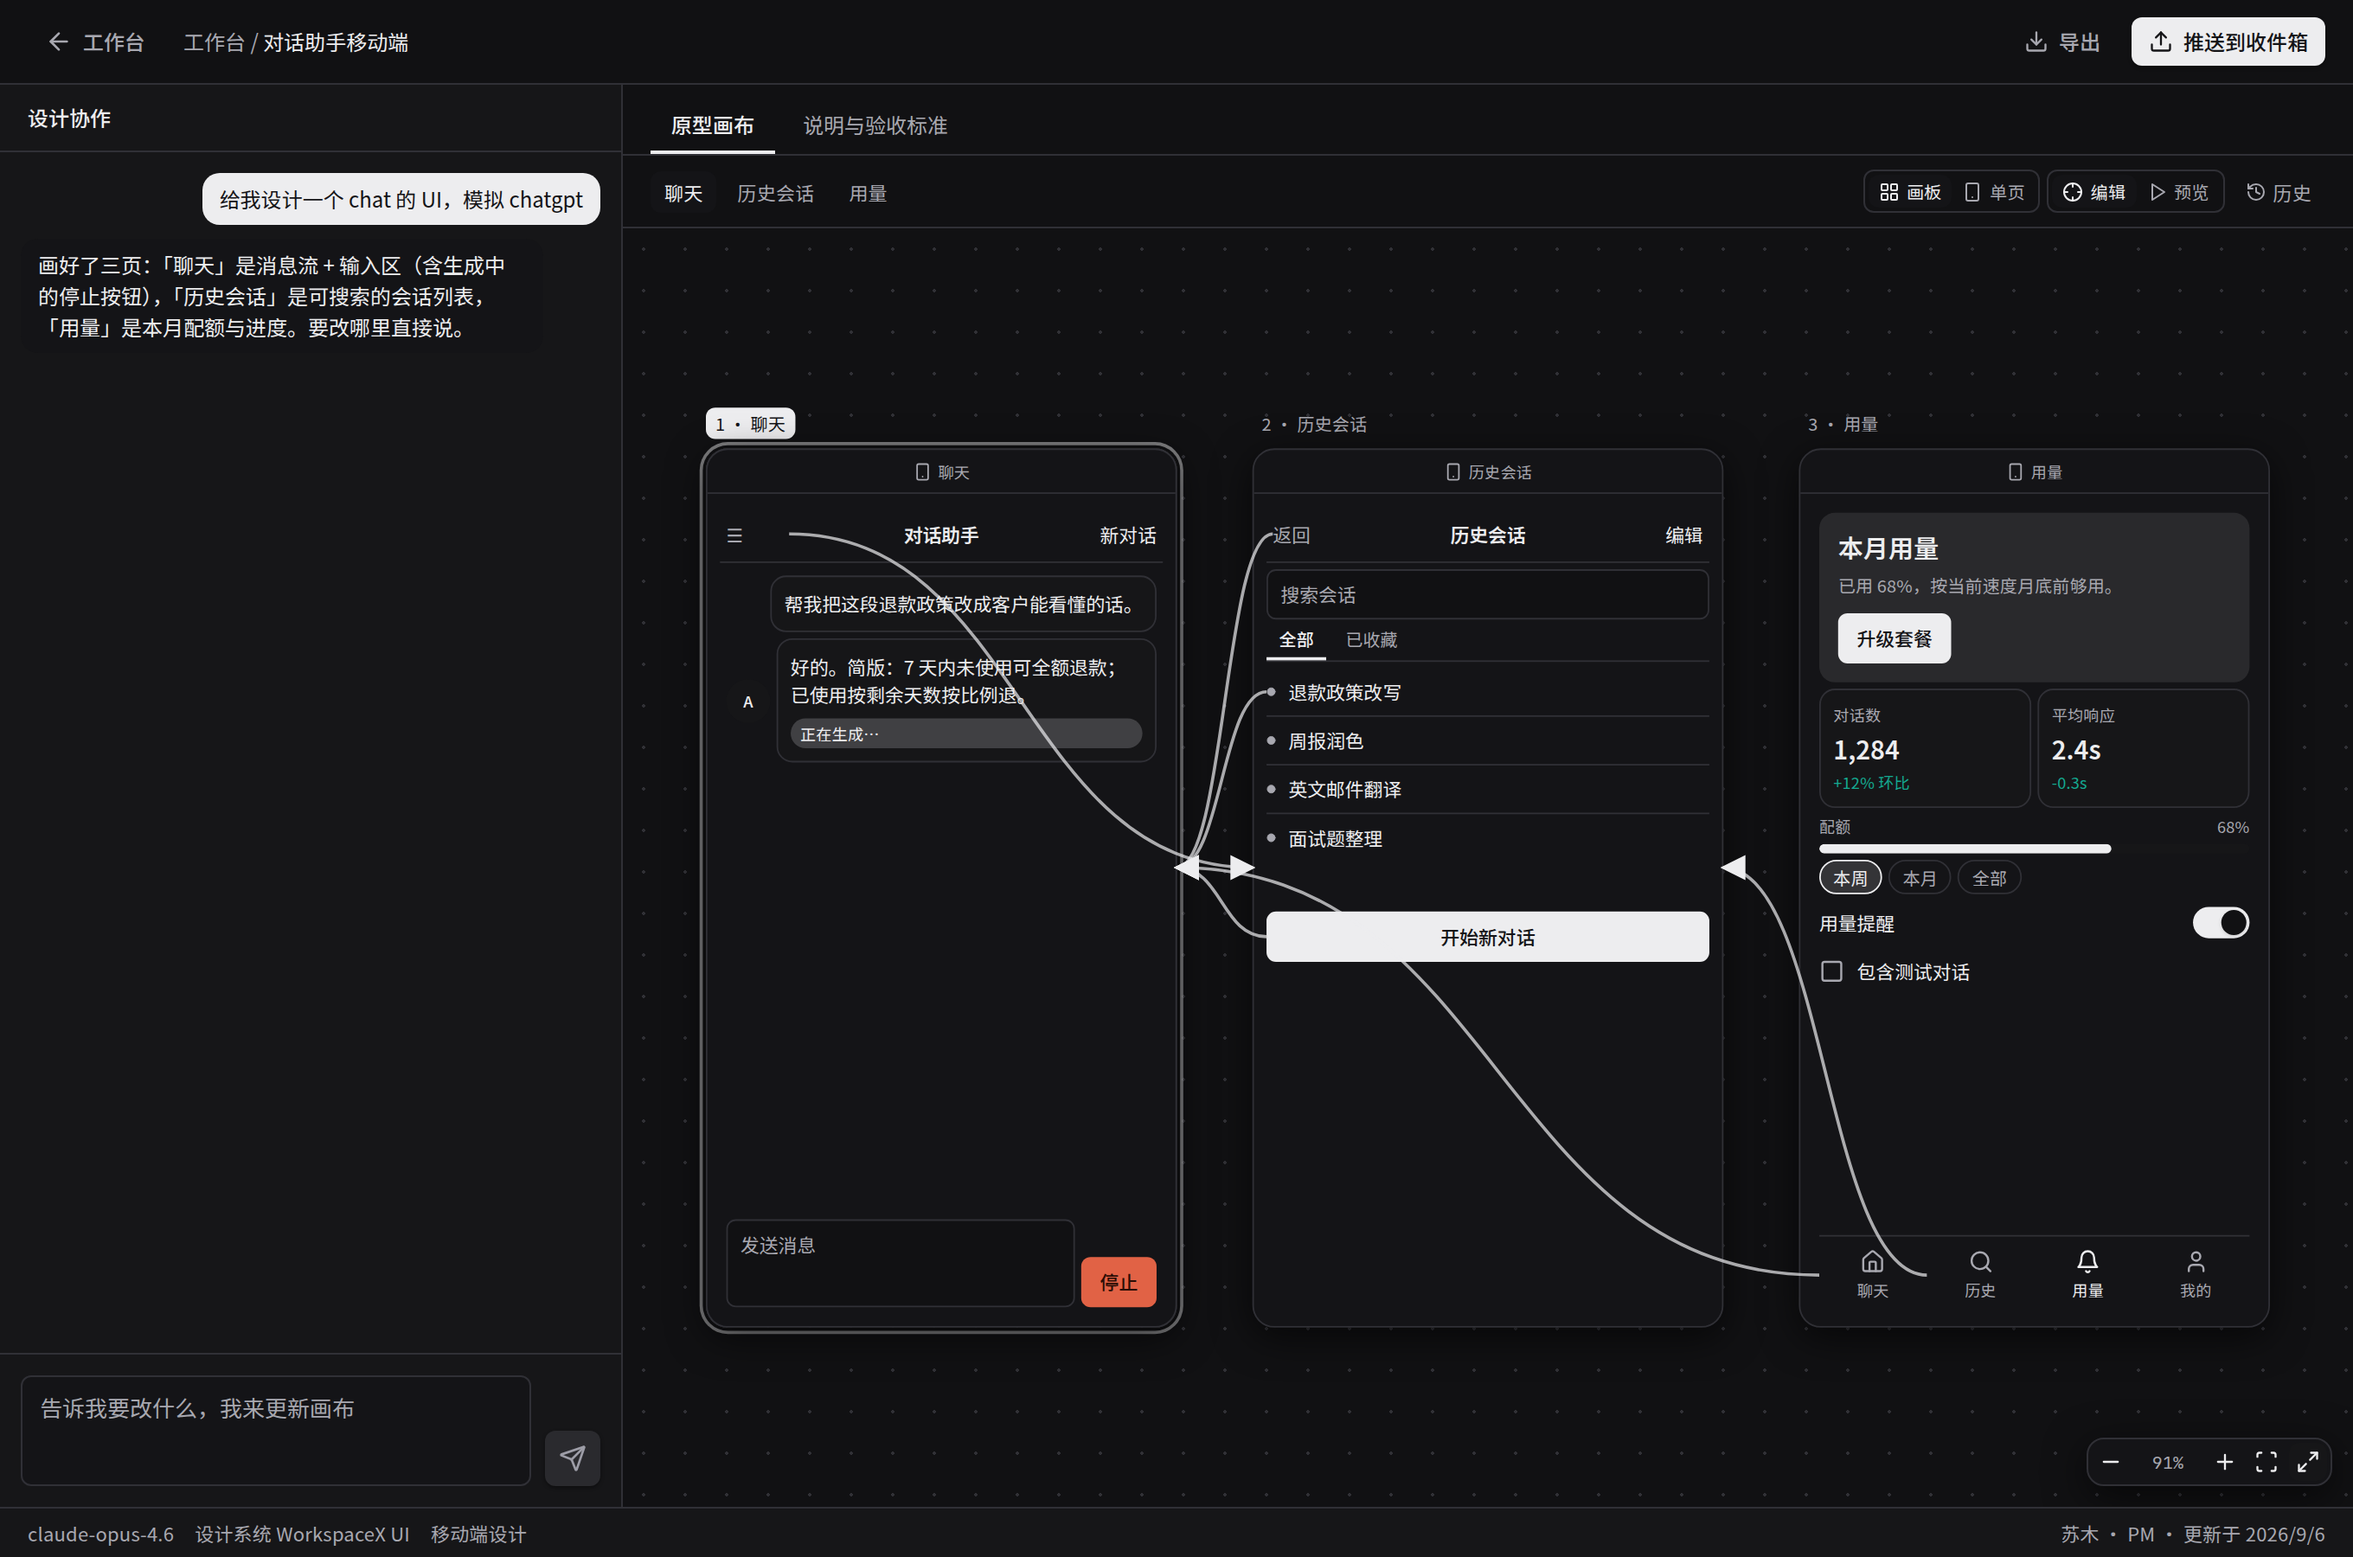
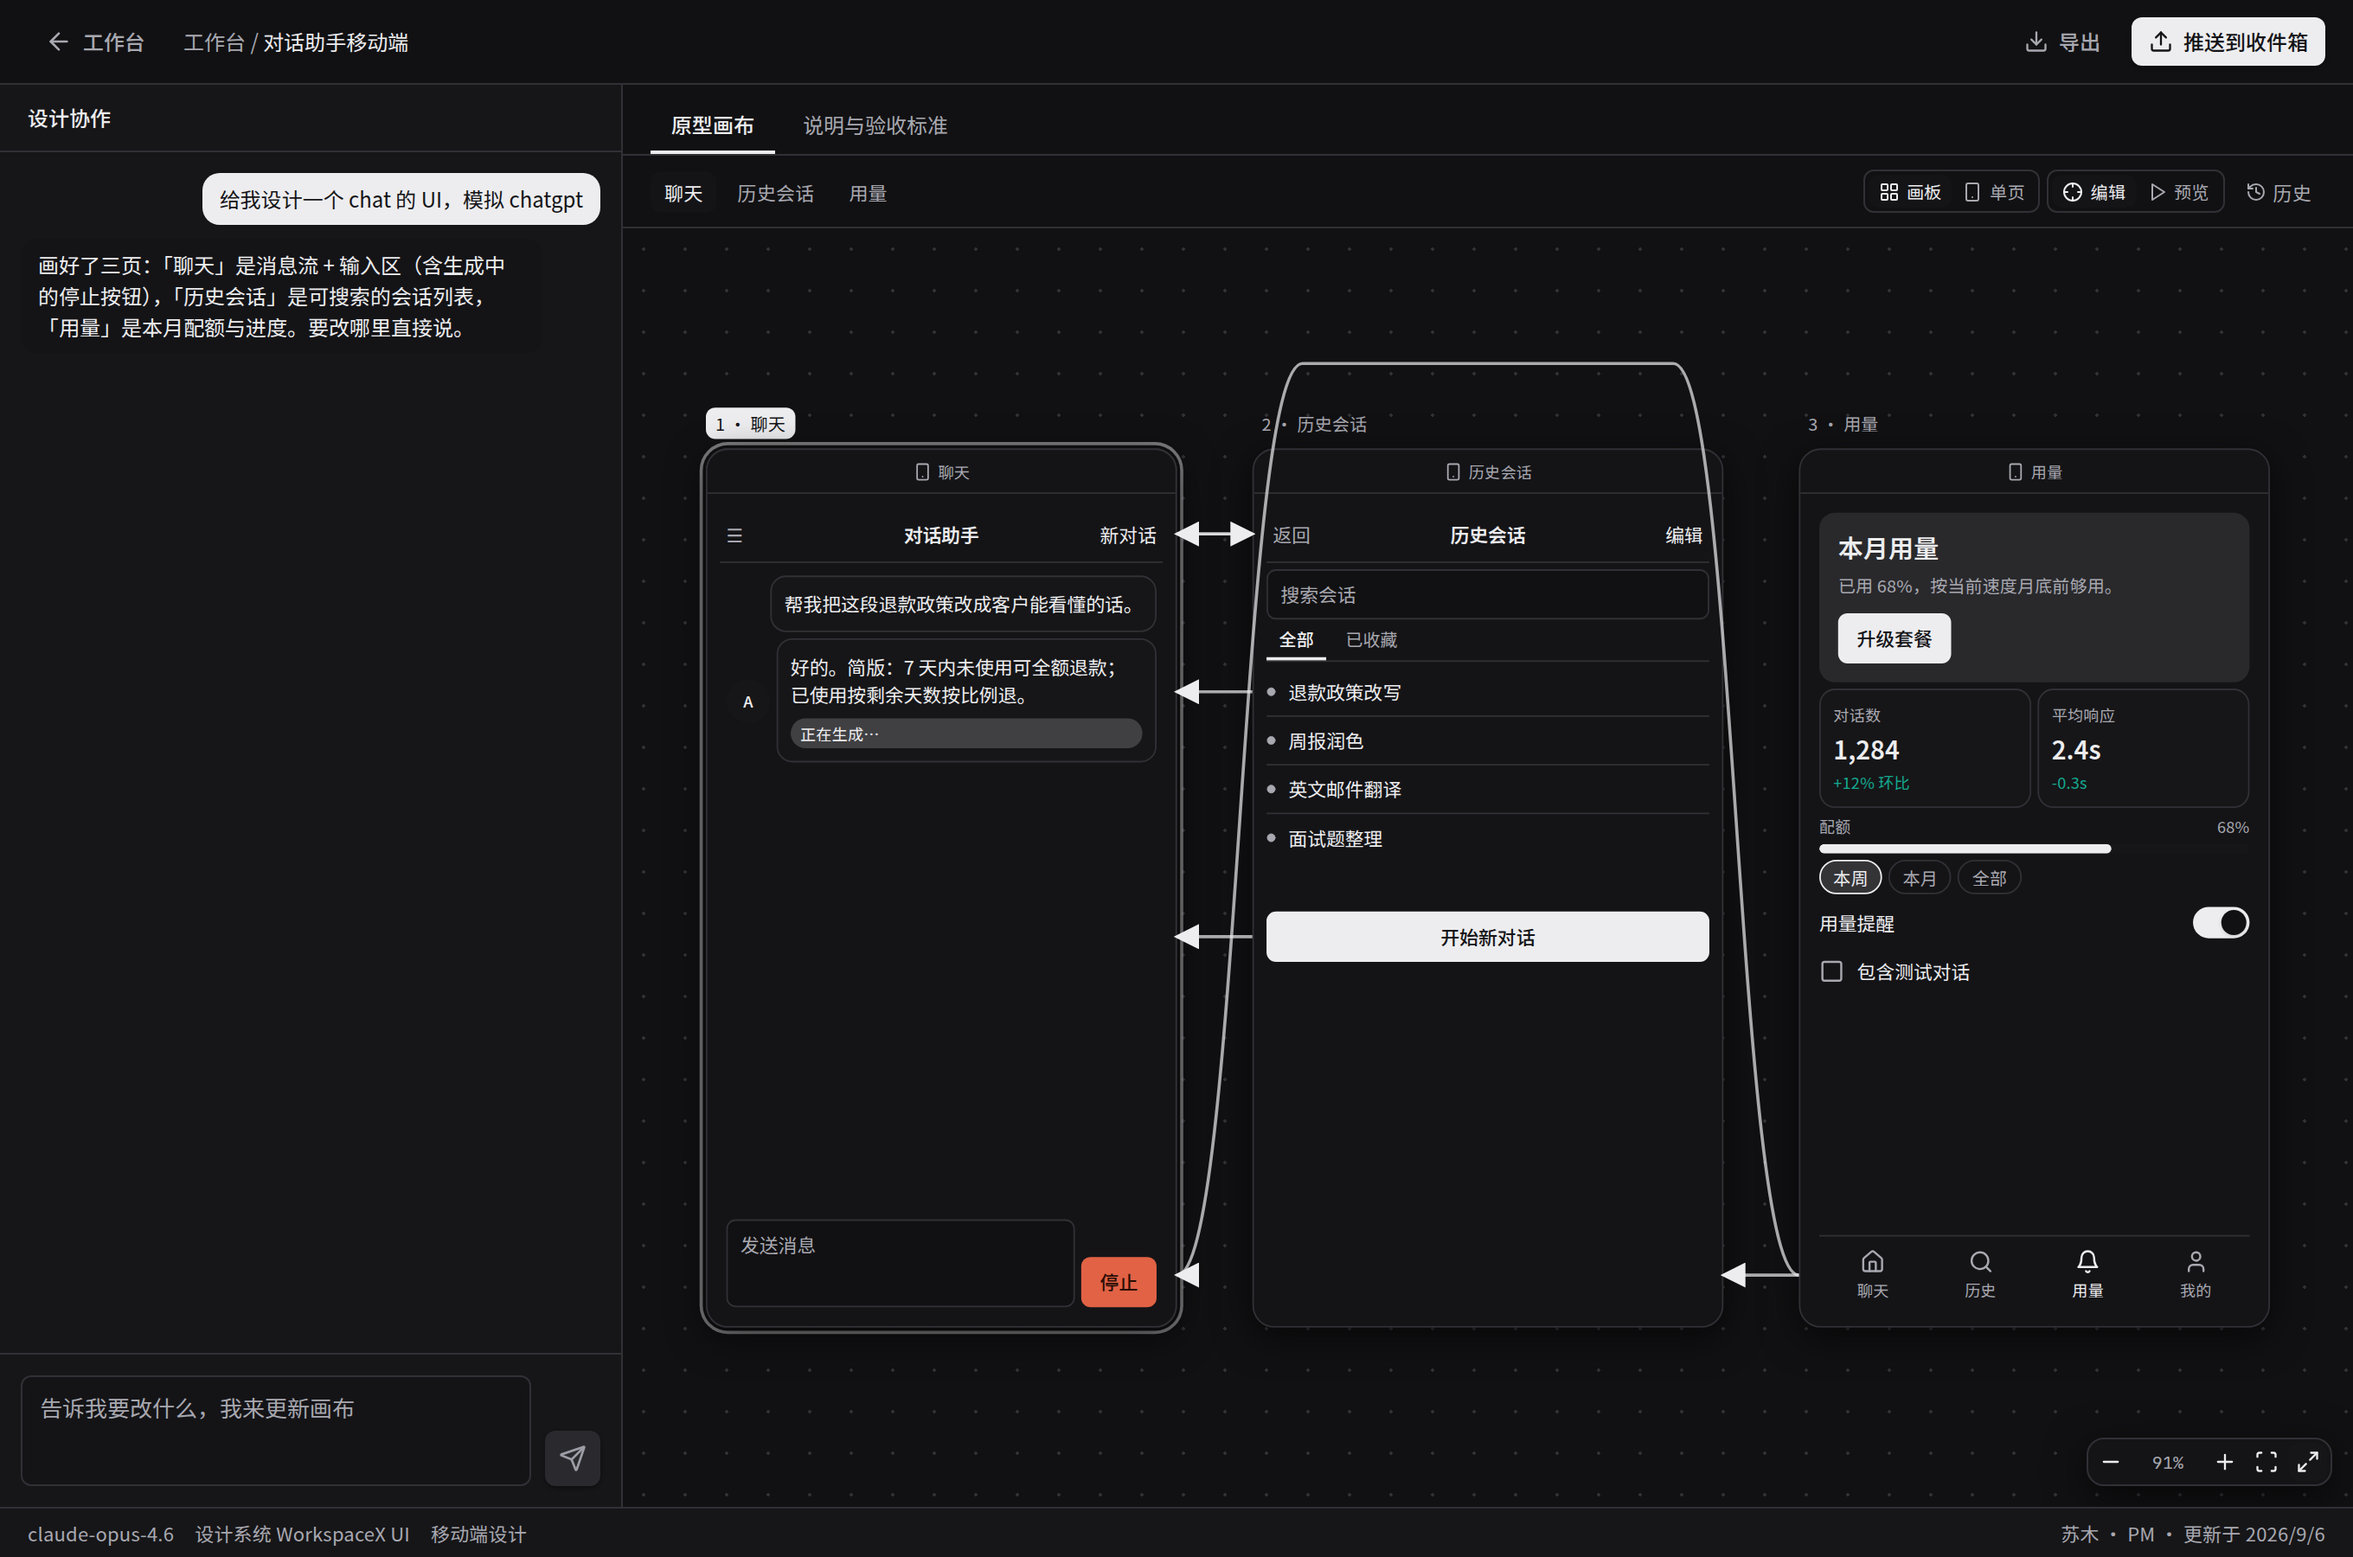
fix(design-prototype): 画板连线不再压住手机内容 + 跨页从上方绕行
Refs #2917

rev-uiux 复评时在图上看到、但**按现行评分卡扣不了分**的问题（十维对应迭代 0–9，
迭代 11 的连线不在任何一维里）。自己开图核对属实，比描述更明显：

- 一条线横穿 AI 气泡「已使用按剩余天数按比例退。」，另一条切过导航栏；
- 第 1、2 页之间两个箭头背靠背挤成一团，指向读不出来。

## 根因

起点取的是**节点自身**的左右缘，而节点在手机里面 ⇒ 每条线都必须横穿本页内容才能出来。
终点固定取目标页的**垂直中心** ⇒ 两条反向的线必然在中间撞在一起。

## 改法

- 起点改成**页边**，垂直位置仍取节点中心（夹在页内）——"从哪个控件出发"照旧读得出，
  但线只走页与页之间的空档。
- 终点与起点同高（夹进目标页），线走平、反向的两条不再重合。
- 跨页（3→1 这种）直连会压过中间那页，改成「抬起 → 顶上走直线 → 落下」。
  ⚠ 控制点必须用固定小偏移：第一版沿用了相邻页那个"一半距离"的 dx，跨页时两点相距很远，
  三次曲线严重过冲——实测冲出可视区又斜插回中间那页，比直连还糟。重拍两次才收敛。

## 验证

真浏览器重拍 `detail-prototype-links-dark.png` 并**逐张开图核对**（不是只看测试绿）：
相邻页的线只走空档、跨页那条从上方绕过第 2 页、无过冲。
web design-loop 97 绿、真浏览器 design-prototype-loop 5/5、lint（含 lint-design）、
lint-ui-material（910 张）、doctor --phase 03 0 FAIL。

⚠ 评分卡缺口另记：D1–D10 覆盖的是迭代 0–9，**迭代 11 即使完全没做也照样 10/10**。
是否补一维 D11（连线可读不遮挡 / 预览换页 / 无死按钮）留给人类裁决，我不自己改判据。

Claude-Session: https://claude.ai/code/session_01KVphFnX3KA34Drfq2ELEfh

diff --git a/apps/web/components/design-loop/prototype-board.tsx b/apps/web/components/design-loop/prototype-board.tsx
@@ -1,4 +1,10 @@
 "use client";
+/** 把 v 夹进 [lo, hi]；区间反了（页太矮）就取中点。线的端点必须落在页边上，不能飘到页外。 */
+function clampTo(v: number, lo: number, hi: number): number {
+  if (hi <= lo) return (lo + hi) / 2;
+  return Math.min(hi, Math.max(lo, v));
+}
+
 /**
  * 迭代 4 —— 多画板画布（Claude Design 式）：所有页并排铺在一块可平移/缩放的画板上。
  *
@@ -86,15 +92,42 @@ export function PrototypeBoard({
         const srcEl = frameEl.querySelector(multi ? `[data-link-item="${linkKey(l.from, l.item)}"]` : `[data-node-id="${l.from}"]`);
         const dstEl = stage.querySelector(`[data-board-frame="${l.to}"]`);
         if (srcEl === null || dstEl === null) continue;
-        const a = rel(srcEl.getBoundingClientRect());
+        const node = rel(srcEl.getBoundingClientRect());
+        const src = rel(frameEl.getBoundingClientRect());
         const b = rel(dstEl.getBoundingClientRect());
         const rightward = l.to > i;
-        const sx = rightward ? a.x2 : a.x1;
-        const sy = (a.y1 + a.y2) / 2;
+        /**
+         * ⚠ 线**从页边出发，不从节点出发**。此前起点取的是节点自身的左右缘，而节点在手机
+         * 里面，于是每条线都要横穿这一页的内容才能出来——实测图上一条线正好划过 AI 气泡
+         * 「已使用按剩余天数按比例退。」。垂直位置仍取节点中心（夹在页内），所以"是哪个控件
+         * 出发的"依然读得出来，只是线本身只走页与页之间的空档。
+         */
+        const sx = rightward ? src.x2 : src.x1;
+        const sy = clampTo((node.y1 + node.y2) / 2, src.y1 + 8, src.y2 - 8);
         const tx = rightward ? b.x1 : b.x2;
-        const ty = (b.y1 + b.y2) / 2;
+        // 终点此前固定取目标页的**垂直中心**，于是两条反向的线在中间撞成一对背靠背箭头
+        // （实测图 1、2 页之间就是）。改成尽量与起点同高：线走平，落点也不再互相重合。
+        const ty = clampTo(sy, b.y1 + 8, b.y2 - 8);
         const dx = Math.max(24, Math.abs(tx - sx) / 2) * (rightward ? 1 : -1);
-        out.push({ key: `${i}:${linkKey(l.from, l.item)}→${l.to}`, d: `M ${sx} ${sy} C ${sx + dx} ${sy}, ${tx - dx} ${ty}, ${tx} ${ty}` });
+        const key = `${i}:${linkKey(l.from, l.item)}→${l.to}`;
+        if (Math.abs(l.to - i) > 1) {
+          /**
+           * 跨页（3→1 这种）：直连必然压过中间那一页的内容，改从**上方绕行**——同流程图的画法。
+           * ⚠ 控制点必须用**固定小偏移**，不能沿用上面那个"一半距离"的 dx：跨页时两点相距很远，
+           *   dx 会大到让三次曲线严重过冲——实测冲出可视区又斜插回中间那页，比直连还糟。
+           *   这里是"抬起来 → 顶上走直线 → 落下去"，形状可预测，与页数多少无关。
+           */
+          const h = rightward ? 40 : -40;
+          const top = Math.min(src.y1, b.y1) - 28;
+          out.push({
+            key,
+            d: `M ${sx} ${sy} C ${sx + h} ${sy}, ${sx + h} ${top}, ${sx + h * 2} ${top}`
+              + ` L ${tx - h * 2} ${top}`
+              + ` C ${tx - h} ${top}, ${tx - h} ${ty}, ${tx} ${ty}`,
+          });
+          continue;
+        }
+        out.push({ key, d: `M ${sx} ${sy} C ${sx + dx} ${sy}, ${tx - dx} ${ty}, ${tx} ${ty}` });
       }
     });
     setPaths(out);
